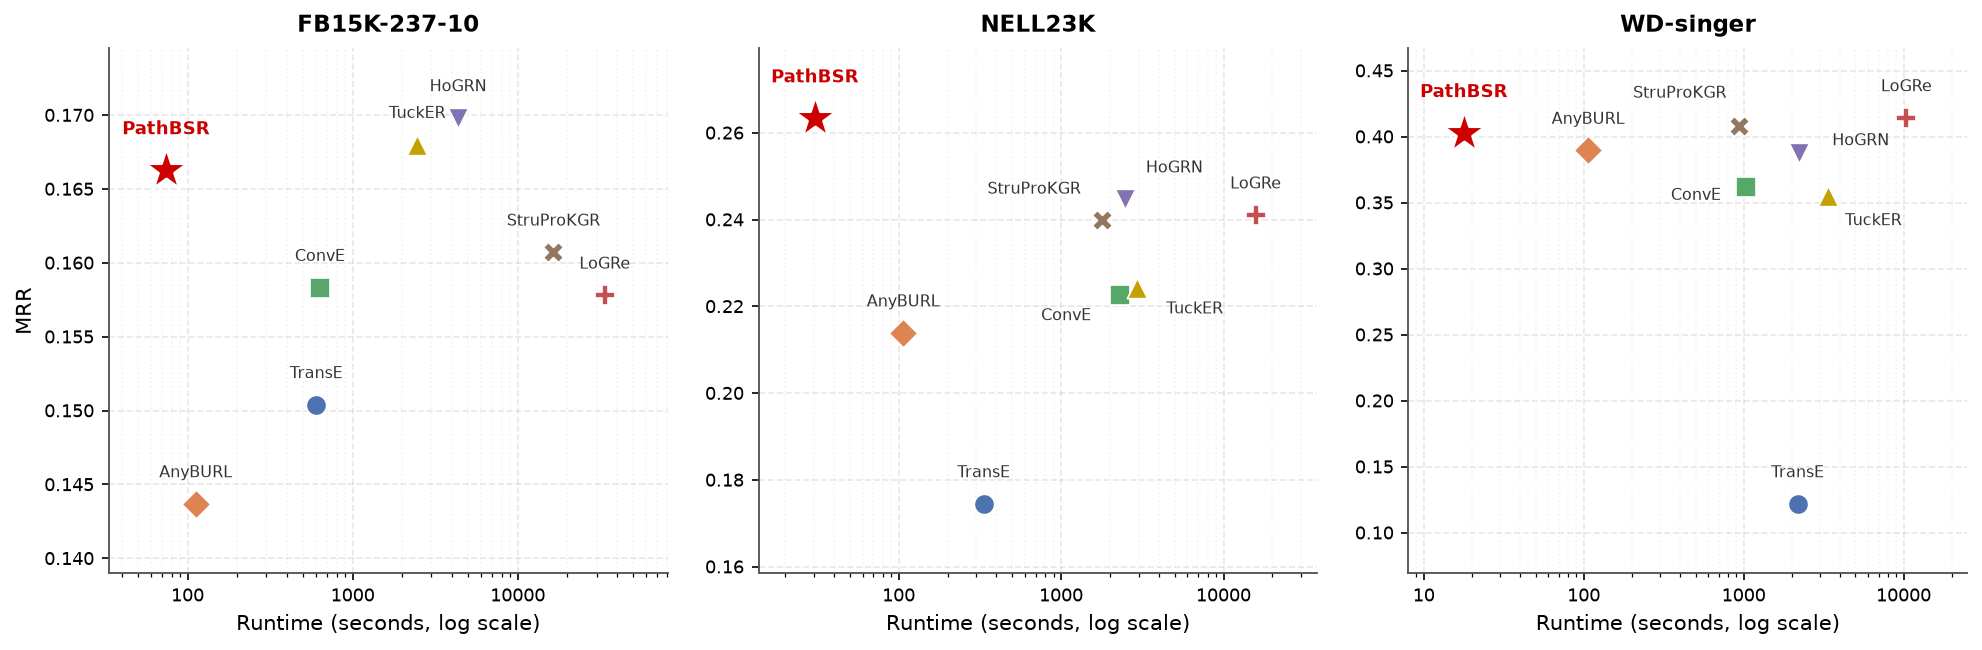
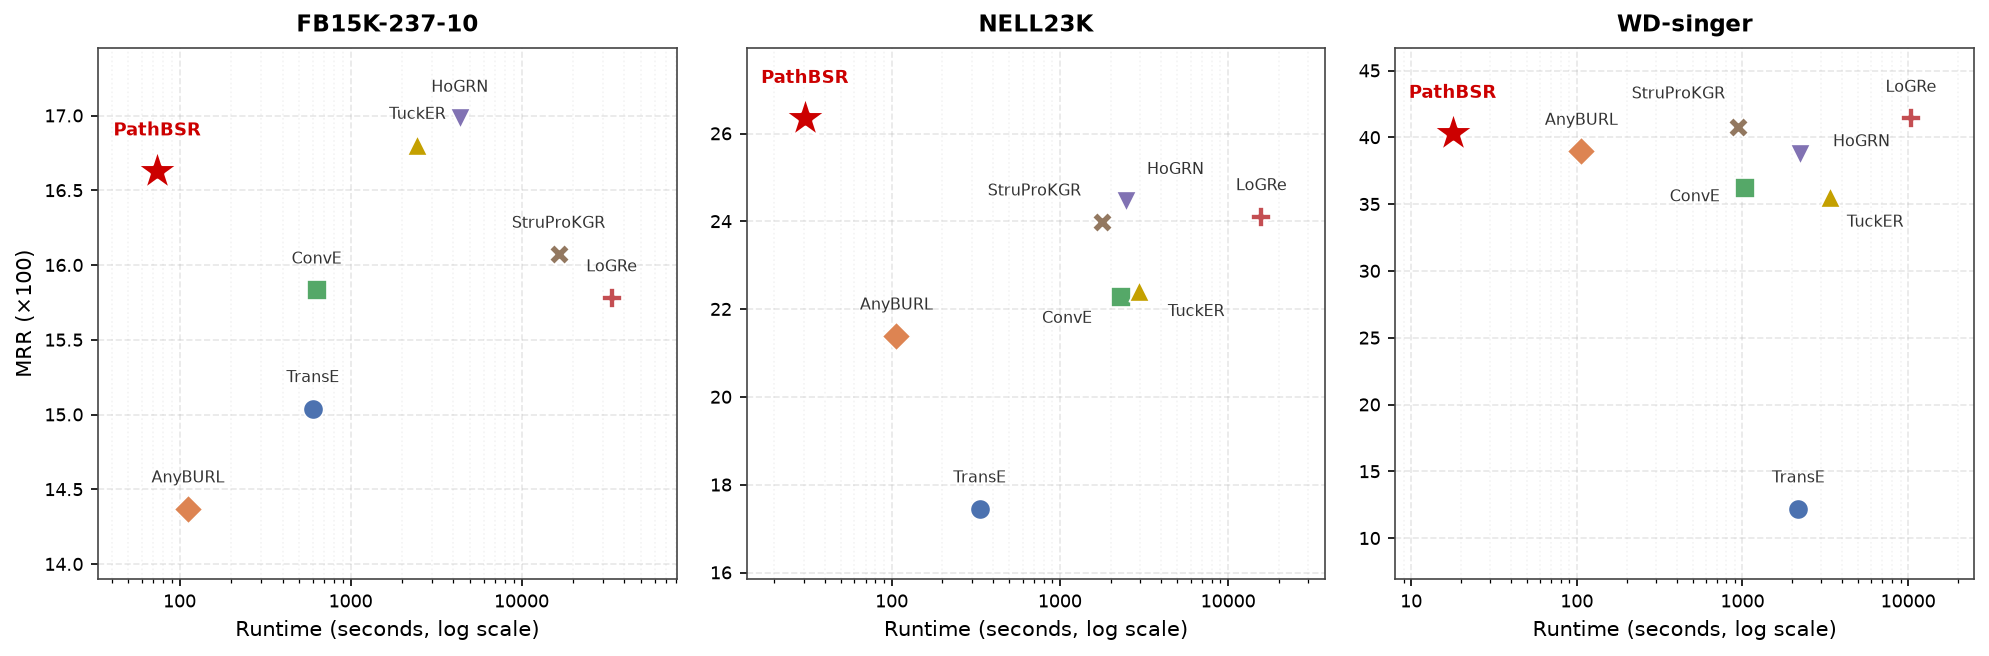
Fix TransE exports and update result figures

diff --git a/scripts/export_bsr_routing_predictions.py b/scripts/export_bsr_routing_predictions.py
@@ -24,6 +24,7 @@ import argparse
 import csv
 import importlib
 import importlib.util
+import math
 import subprocess
 import sys
 from collections import defaultdict
@@ -91,6 +92,12 @@ def parse_args():
     parser.add_argument("--top-k", type=int, default=200)
     parser.add_argument("--seed", type=int, default=42)
     parser.add_argument("--gpu", type=int, default=0)
+    parser.add_argument(
+        "--expected-metrics",
+        type=str,
+        default=None,
+        help="Optional saved metrics CSV used for an independent test-split check.",
+    )
     return parser.parse_args()
 
 
@@ -248,7 +255,7 @@ class TraditionalAdapter:
     translation needed.
     """
 
-    TRANSE_MARGIN = 9.0  # matches baselines/traditional/run_all.py training config
+    TRANSE_MARGIN = 1.0  # matches baselines/traditional/run_all.py training config
 
     def __init__(self, model_name, checkpoint_path, num_entities, num_base_rel, device):
         models_module = _load_traditional_model_classes()
@@ -257,11 +264,17 @@ class TraditionalAdapter:
         margin = self.TRANSE_MARGIN if model_name == "TransE" else 0.0
 
         num_rel_ckpt = int(state_dict["rel_emb.weight"].shape[0])
+        if model_name == "TransE" and num_rel_ckpt != num_base_rel:
+            raise ValueError(
+                "The SparseKGC TransE exporter expects a no-inverse checkpoint "
+                f"with {num_base_rel} relations, but found {num_rel_ckpt}."
+            )
         args = argparse.Namespace(
             num_ent=num_entities,
             num_rel=num_rel_ckpt,
             emb_dim=emb_dim,
             margin=margin,
+            loss="margin" if model_name == "TransE" else "bce",
         )
         model_cls = {"TransE": models_module.TransE,
                      "ConvE": models_module.ConvE,
@@ -274,31 +287,33 @@ class TraditionalAdapter:
         self.checkpoint_path = checkpoint_path
         self.emb_dim = emb_dim
         self.margin = margin
+        self.model_name = model_name
+        self.num_base_rel = num_base_rel
         self.num_rel_ckpt = num_rel_ckpt  # may be < 2*num_base_rel for TransE (no inverse)
 
     def describe_config(self):
         bits = [f"checkpoint={self.checkpoint_path.name}", f"emb_dim={self.emb_dim}"]
         if self.margin:
             bits.append(f"margin={self.margin}")
+        if self.model_name == "TransE":
+            bits.append("distance=l1")
+            bits.append("output=raw")
         return "; ".join(bits)
 
     @torch.no_grad()
     def _score_head_transe(self, query_t, r_base):
-        # Head prediction for TransE (no inverse rels): score(e) = -||e + r - t|| for all e.
-        all_e = self.model.ent_emb.weight          # (num_ent, emb_dim)
-        t_emb = self.model.ent_emb(query_t)        # (batch, emb_dim)
-        r_emb = self.model.rel_emb(r_base)         # (batch, emb_dim)
-        target = t_emb - r_emb                     # (batch, emb_dim): expected head position
-        diff = all_e.unsqueeze(0) - target.unsqueeze(1)  # (batch, num_ent, emb_dim)
-        return -torch.norm(diff, dim=-1)            # (batch, num_ent)
+        # Reuse the model's official L1 head scorer instead of maintaining a
+        # second implementation of score(e) = margin - ||e + r - t||_1.
+        return self.model.score_heads(r_base, query_t)
 
     @torch.no_grad()
     def score_batch(self, query_h_bsr, query_r_bsr):
         h = torch.as_tensor(query_h_bsr, dtype=torch.long, device=self.device)
         r = torch.as_tensor(query_r_bsr, dtype=torch.long, device=self.device)
-        # TransE has no inverse relations; head queries (r >= num_rel_ckpt) need manual compute.
-        if r.max().item() >= self.num_rel_ckpt:
-            is_head = r >= self.num_rel_ckpt
+        # TransE has no inverse relations; head queries use direct (?, r, t)
+        # scoring while tail queries use the model's raw margin score.
+        if self.model_name == "TransE":
+            is_head = r >= self.num_base_rel
             num_ent = self.model.ent_emb.weight.shape[0]
             scores = torch.empty(len(h), num_ent, device=self.device)
             if (~is_head).any():
@@ -306,7 +321,7 @@ class TraditionalAdapter:
                 scores[idx] = self.model(h[idx], r[idx])
             if is_head.any():
                 idx = is_head.nonzero(as_tuple=True)[0]
-                scores[idx] = self._score_head_transe(h[idx], r[idx] - self.num_rel_ckpt)
+                scores[idx] = self._score_head_transe(h[idx], r[idx] - self.num_base_rel)
         else:
             scores = self.model(h, r)
         return scores.detach().cpu().numpy()
@@ -756,7 +771,21 @@ def write_schema(path):
 # Validation
 # ---------------------------------------------------------------------------
 
-def validate_export(output_root, manifest_records, dataset_info, top_k):
+def load_expected_metrics(path):
+    if path is None:
+        return None
+    metrics_path = Path(path).resolve()
+    if not metrics_path.exists():
+        raise FileNotFoundError(f"Expected metrics file not found: {metrics_path}")
+    with open(metrics_path, encoding="utf-8", newline="") as handle:
+        rows = list(csv.DictReader(handle))
+    return {
+        (row.get("Model", row.get("model", "")), row.get("Dataset", row.get("dataset", ""))): row
+        for row in rows
+    }
+
+
+def validate_export(output_root, manifest_records, dataset_info, top_k, expected_metrics=None):
     print("\n" + "=" * 72)
     print("Validating export...")
     print("=" * 72)
@@ -781,10 +810,8 @@ def validate_export(output_root, manifest_records, dataset_info, top_k):
             continue
 
         with open(summary_path, encoding="utf-8") as f:
-            reader = csv.DictReader(f)
-            ranks = []
-            for row in reader:
-                ranks.append(float(row["filtered_rank"]))
+            summary_rows = list(csv.DictReader(f))
+        ranks = [float(row["filtered_rank"]) for row in summary_rows]
 
         num_triples = dataset_info[dataset]["num_triples"][split]
         expected_queries = 2 * num_triples
@@ -792,6 +819,62 @@ def validate_export(output_root, manifest_records, dataset_info, top_k):
             errors.append(f"[{label}] query_summary row count {len(ranks)} != 2*num_triples {expected_queries}")
         if int(rec["num_queries"]) != len(ranks):
             errors.append(f"[{label}] manifest num_queries {rec['num_queries']} != query_summary row count {len(ranks)}")
+
+        expected_triples = dataset_info[dataset]["triples"][split]
+        num_base_rel = dataset_info[dataset]["num_base_rel"]
+        for row_number, row in enumerate(summary_rows):
+            triple_index = row_number // 2
+            if triple_index >= len(expected_triples):
+                break
+            h, r, t = expected_triples[triple_index]
+            if row_number % 2 == 0:
+                expected = {
+                    "query_index": row_number,
+                    "direction": "tail",
+                    "original_h": h,
+                    "original_r": r,
+                    "original_t": t,
+                    "query_h": h,
+                    "query_r": r,
+                    "query_t": t,
+                    "gold_entity": t,
+                }
+            else:
+                expected = {
+                    "query_index": row_number,
+                    "direction": "head",
+                    "original_h": h,
+                    "original_r": r,
+                    "original_t": t,
+                    "query_h": t,
+                    "query_r": r + num_base_rel,
+                    "query_t": h,
+                    "gold_entity": h,
+                }
+            mismatched = [
+                key for key, value in expected.items()
+                if row[key] != str(value)
+            ]
+            if mismatched:
+                errors.append(
+                    f"[{label}] query alignment mismatch at row {row_number}: "
+                    + ", ".join(mismatched)
+                )
+                break
+
+        invalid_rank = next(
+            (
+                (index, rank)
+                for index, rank in enumerate(ranks)
+                if not math.isfinite(rank)
+                or rank < 1.0
+                or rank > dataset_info[dataset]["num_entities"]
+            ),
+            None,
+        )
+        if invalid_rank is not None:
+            index, rank = invalid_rank
+            errors.append(f"[{label}] invalid filtered rank {rank} at row {index}")
 
         if ranks:
             recomputed = {
@@ -803,6 +886,28 @@ def validate_export(output_root, manifest_records, dataset_info, top_k):
             for key in ("mrr", "hits@1", "hits@3", "hits@10"):
                 if abs(recomputed[key] - float(rec[key])) > 1e-4:
                     errors.append(f"[{label}] manifest {key}={rec[key]} != recomputed {recomputed[key]:.5f}")
+
+        if expected_metrics is not None and split == "test":
+            expected_row = expected_metrics.get((model, dataset))
+            if expected_row is None:
+                errors.append(f"[{label}] no matching row in the expected metrics CSV")
+            else:
+                metric_columns = {
+                    "mrr": "MRR_Avg",
+                    "hits@1": "Hits@1_Avg",
+                    "hits@3": "Hits@3_Avg",
+                    "hits@10": "Hits@10_Avg",
+                }
+                for metric, column in metric_columns.items():
+                    expected_value = expected_row.get(column, "")
+                    if expected_value in ("", "—"):
+                        errors.append(f"[{label}] expected metrics CSV is missing {column}")
+                        continue
+                    if abs(float(rec[metric]) - float(expected_value)) > 1e-4:
+                        errors.append(
+                            f"[{label}] exported {metric}={rec[metric]} != "
+                            f"saved {column}={expected_value}"
+                        )
 
         with open(candidates_path, encoding="utf-8") as f:
             num_candidate_rows = sum(1 for _ in f) - 1  # minus header
@@ -845,6 +950,7 @@ def main():
 
     source_repo = git_remote_url()
     source_commit = git_commit_hash()
+    expected_metrics = load_expected_metrics(args.expected_metrics)
 
     manifest_rows_root = []
     manifest_rows_by_split = {split: [] for split in args.splits}
@@ -865,7 +971,9 @@ def main():
         true_obj_filter = build_true_object_filter(translated, num_base_rel)
         dataset_info[dataset_name] = {
             "num_entities": len(entities),
+            "num_base_rel": num_base_rel,
             "num_triples": {split: len(translated[split]) for split in ("train", "valid", "test")},
+            "triples": {split: translated[split] for split in args.splits},
         }
         print(f"  num_entities={len(entities)} num_base_relations={num_base_rel} "
               f"train/valid/test={len(translated['train'])}/{len(translated['valid'])}/{len(translated['test'])}")
@@ -957,7 +1065,13 @@ def main():
         print("\nNo (model, dataset, split) combinations were exported -- nothing to validate.")
         return
 
-    validate_export(output_root, manifest_records, dataset_info, args.top_k)
+    validate_export(
+        output_root,
+        manifest_records,
+        dataset_info,
+        args.top_k,
+        expected_metrics=expected_metrics,
+    )
 
     exported_models = sorted({rec["model"] for rec in manifest_records})
     print("\nModels confirmed usable as BSR routing experts (predictions exported & validated): "

diff --git a/scripts/plot_mrr_lines.py b/scripts/plot_mrr_lines.py
@@ -32,6 +32,8 @@ DATASETS = [
 ]
 MODEL_ORDER = [
     "TransE",
+    "DistMult",
+    "ComplEx",
     "ConvE",
     "RotatE",
     "TuckER",
@@ -45,6 +47,8 @@ MODEL_ORDER = [
 ]
 BASELINE_COLORS = [
     "#7c7c7c",
+    "#1f77b4",
+    "#6baed6",
     "#4c72b0",
     "#55a868",
     "#c4a000",
@@ -58,16 +62,14 @@ BASELINE_COLORS = [
 PATHBSR_COLOR = "#cc0000"
 PNG_METADATA = {"Software": "SparseKGC"}
 
-plt.rcParams.update(
-    {
-        "font.family": "DejaVu Sans",
-        "font.size": 11,
-        "axes.edgecolor": "#555555",
-        "axes.linewidth": 0.9,
-        "axes.spines.top": False,
-        "axes.spines.right": False,
-    }
-)
+PLOT_STYLE = {
+    "font.family": "DejaVu Sans",
+    "font.size": 11,
+    "axes.edgecolor": "#555555",
+    "axes.linewidth": 0.9,
+    "axes.spines.top": False,
+    "axes.spines.right": False,
+}
 
 
 def load_mrr(path: Path) -> dict[str, list[float]]:
@@ -130,7 +132,7 @@ def draw_panel(ax, data: dict[str, list[float]], title: str, show_legend: bool) 
 
     ax.set_xticks(x_values)
     ax.set_xticklabels(DATASETS, rotation=15, ha="right", fontsize=9.5)
-    ax.set_ylabel("MRR (%)", fontsize=11)
+    ax.set_ylabel("MRR (×100)", fontsize=11)
     ax.set_title(title, fontsize=13, fontweight="bold", pad=10)
     ax.yaxis.set_minor_locator(ticker.AutoMinorLocator(2))
     ax.grid(axis="y", which="major", linestyle="--", alpha=0.30, zorder=0)
@@ -139,8 +141,8 @@ def draw_panel(ax, data: dict[str, list[float]], title: str, show_legend: bool) 
     if show_legend:
         ax.legend(
             loc="upper left",
-            ncol=2,
-            fontsize=8.5,
+            ncol=3,
+            fontsize=8.0,
             framealpha=0.88,
             edgecolor="#cccccc",
             handlelength=1.8,
@@ -163,6 +165,8 @@ def generate(
     table_dir: Path = DEFAULT_TABLE_DIR,
     out: Path = DEFAULT_FIGURE_DIR,
 ) -> list[Path]:
+    plt.rcdefaults()
+    plt.rcParams.update(PLOT_STYLE)
     table_dir = Path(table_dir).resolve()
     out = Path(out).resolve()
     out.mkdir(parents=True, exist_ok=True)
@@ -188,7 +192,7 @@ def generate(
         handles,
         labels,
         loc="lower center",
-        ncol=6,
+        ncol=7,
         fontsize=9,
         framealpha=0.9,
         edgecolor="#cccccc",

diff --git a/scripts/plot_efficiency.py b/scripts/plot_efficiency.py
@@ -56,13 +56,11 @@ LABEL_OVERRIDE = {
 }
 PNG_METADATA = {"Software": "SparseKGC"}
 
-plt.rcParams.update(
-    {
-        "font.family": "DejaVu Sans",
-        "axes.edgecolor": "#444444",
-        "axes.linewidth": 0.8,
-    }
-)
+PLOT_STYLE = {
+    "font.family": "DejaVu Sans",
+    "axes.edgecolor": "#444444",
+    "axes.linewidth": 0.8,
+}
 
 
 def load_rows(path: Path) -> dict[str, dict[str, str]]:
@@ -93,6 +91,8 @@ def generate(
     table_dir: Path = DEFAULT_TABLE_DIR,
     out: Path = DEFAULT_FIGURE_DIR,
 ) -> list[Path]:
+    plt.rcdefaults()
+    plt.rcParams.update(PLOT_STYLE)
     table_dir = Path(table_dir).resolve()
     out = Path(out).resolve()
     out.mkdir(parents=True, exist_ok=True)
@@ -104,7 +104,7 @@ def generate(
     for ax, dataset in zip(axes, EFF_DATASETS):
         points = []
         for method in PLOT_METHODS:
-            mrr = get_value(main_rows, method, f"{dataset}_MRR")
+            mrr = get_value(main_rows, method, f"{dataset}_MRR") * 100.0
             seconds = get_value(efficiency_rows, method, f"{dataset}_raw_s")
             points.append((method, mrr, seconds))
 
@@ -150,7 +150,7 @@ def generate(
         )
         ax.set_xlabel("Runtime (seconds, log scale)", fontsize=10)
         if dataset == EFF_DATASETS[0]:
-            ax.set_ylabel("MRR", fontsize=10)
+            ax.set_ylabel("MRR (×100)", fontsize=10)
         ax.set_title(dataset, fontsize=11, fontweight="bold", pad=8)
         ax.grid(True, which="major", linestyle="--", alpha=0.30, zorder=0)
         ax.grid(True, which="minor", linestyle=":", alpha=0.15, zorder=0)
